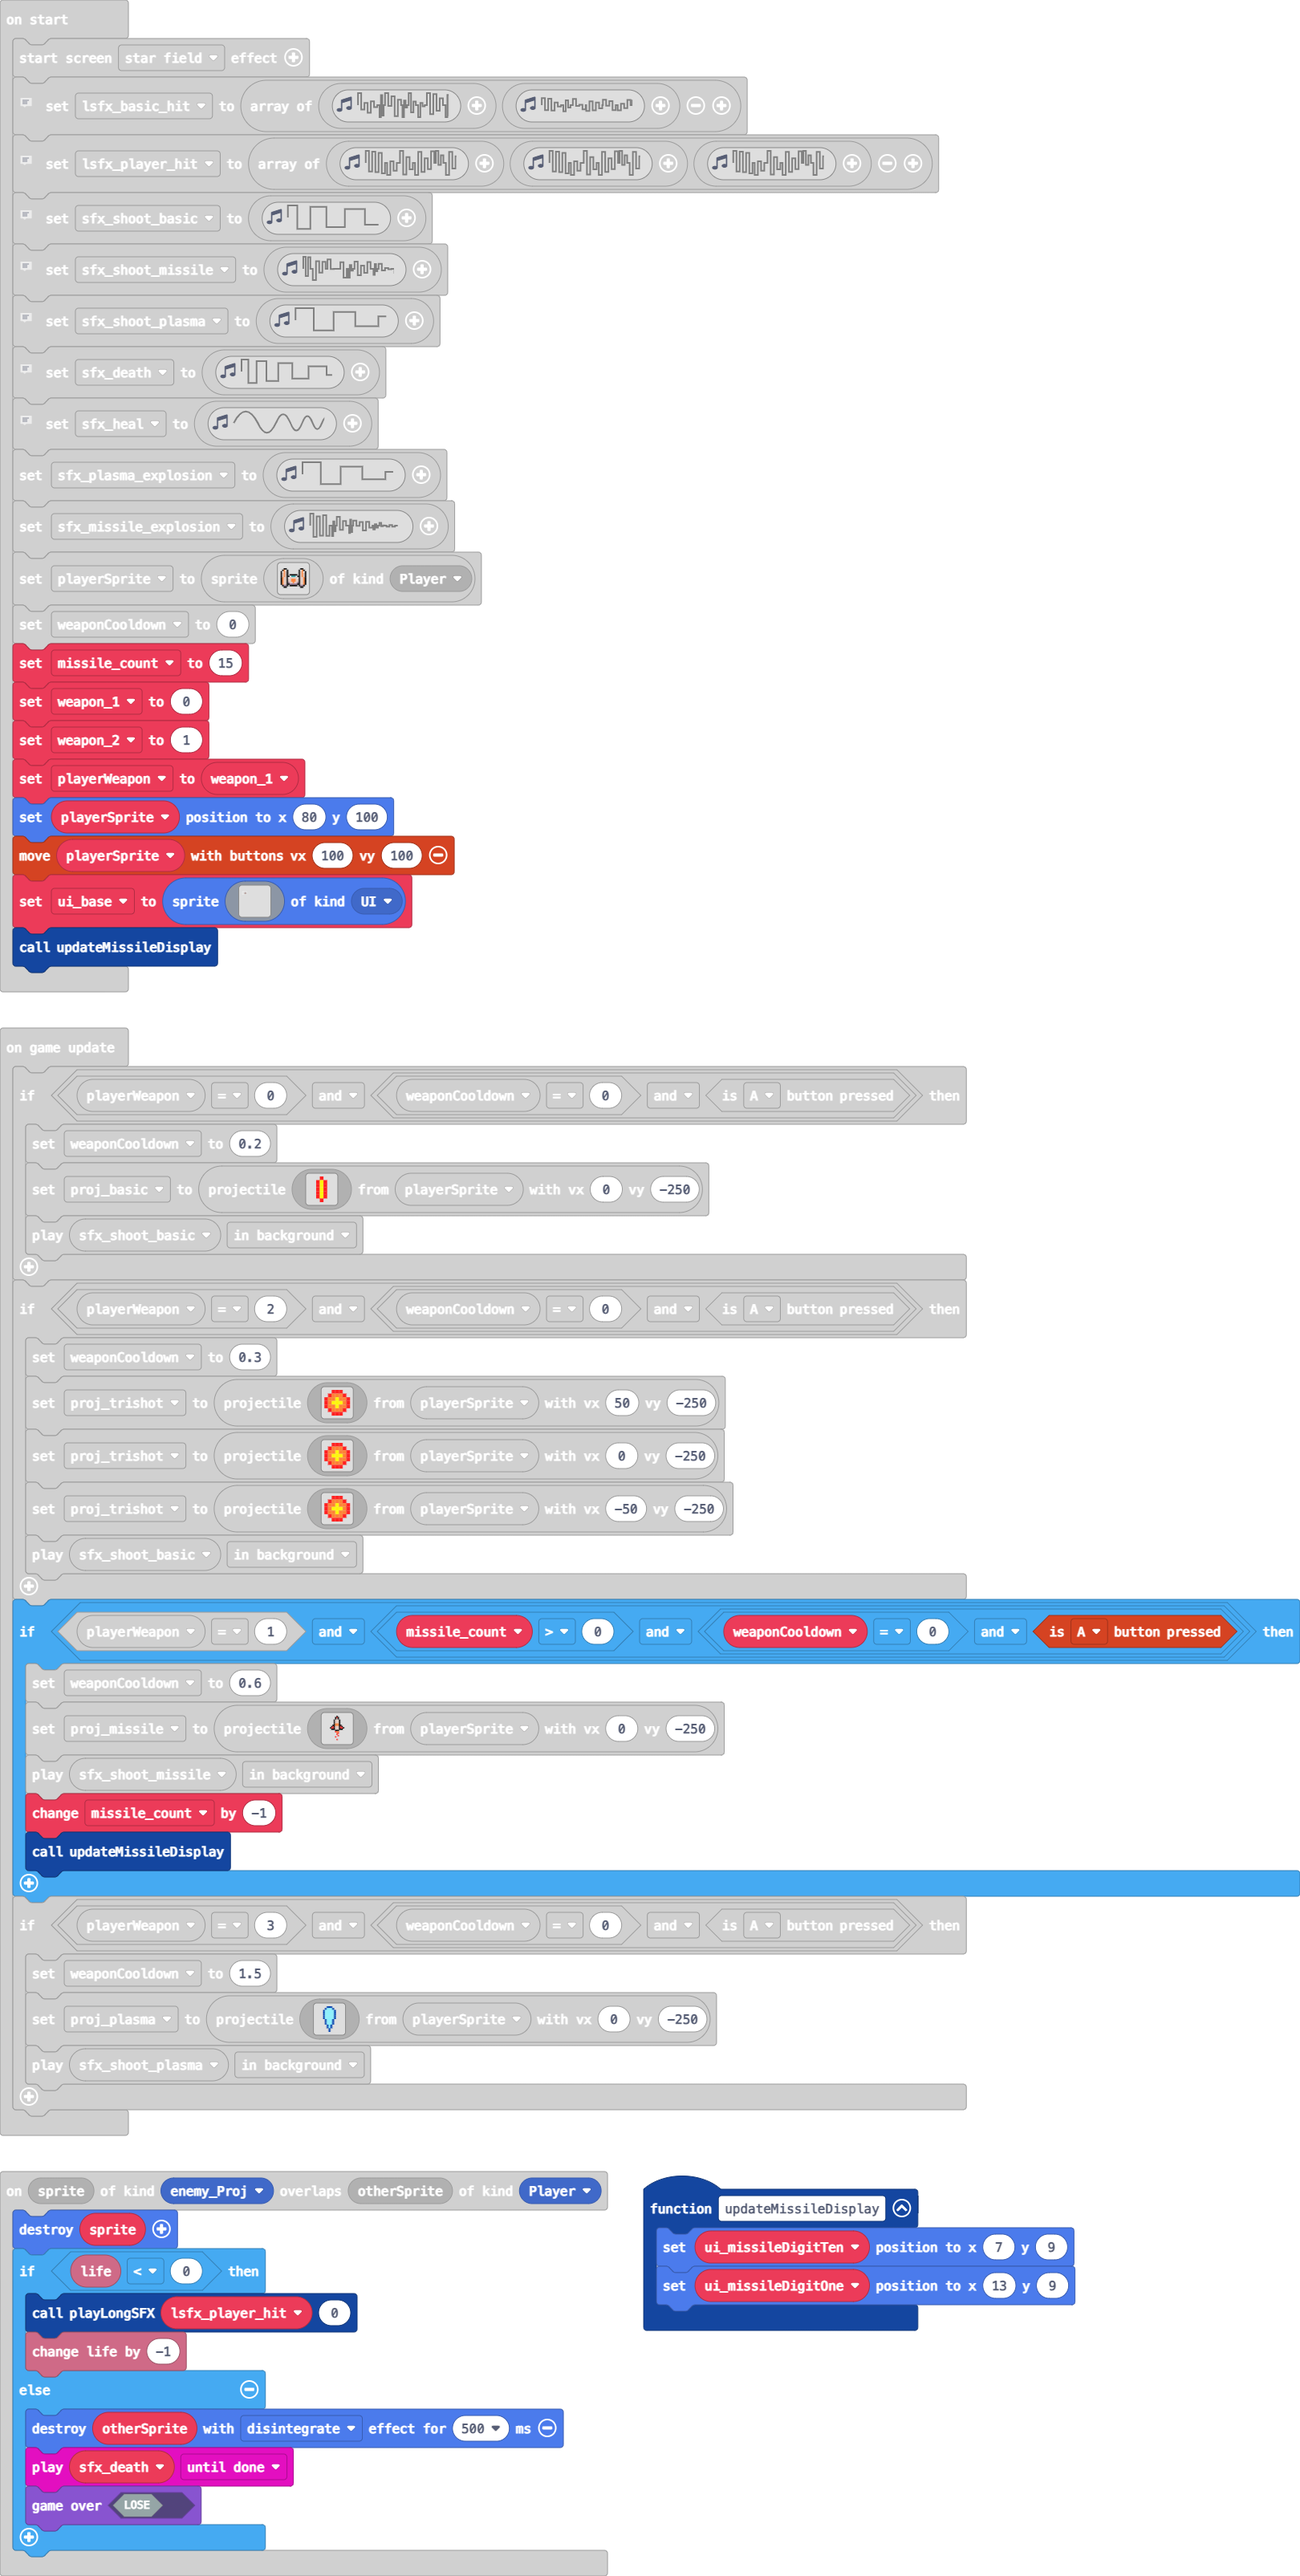
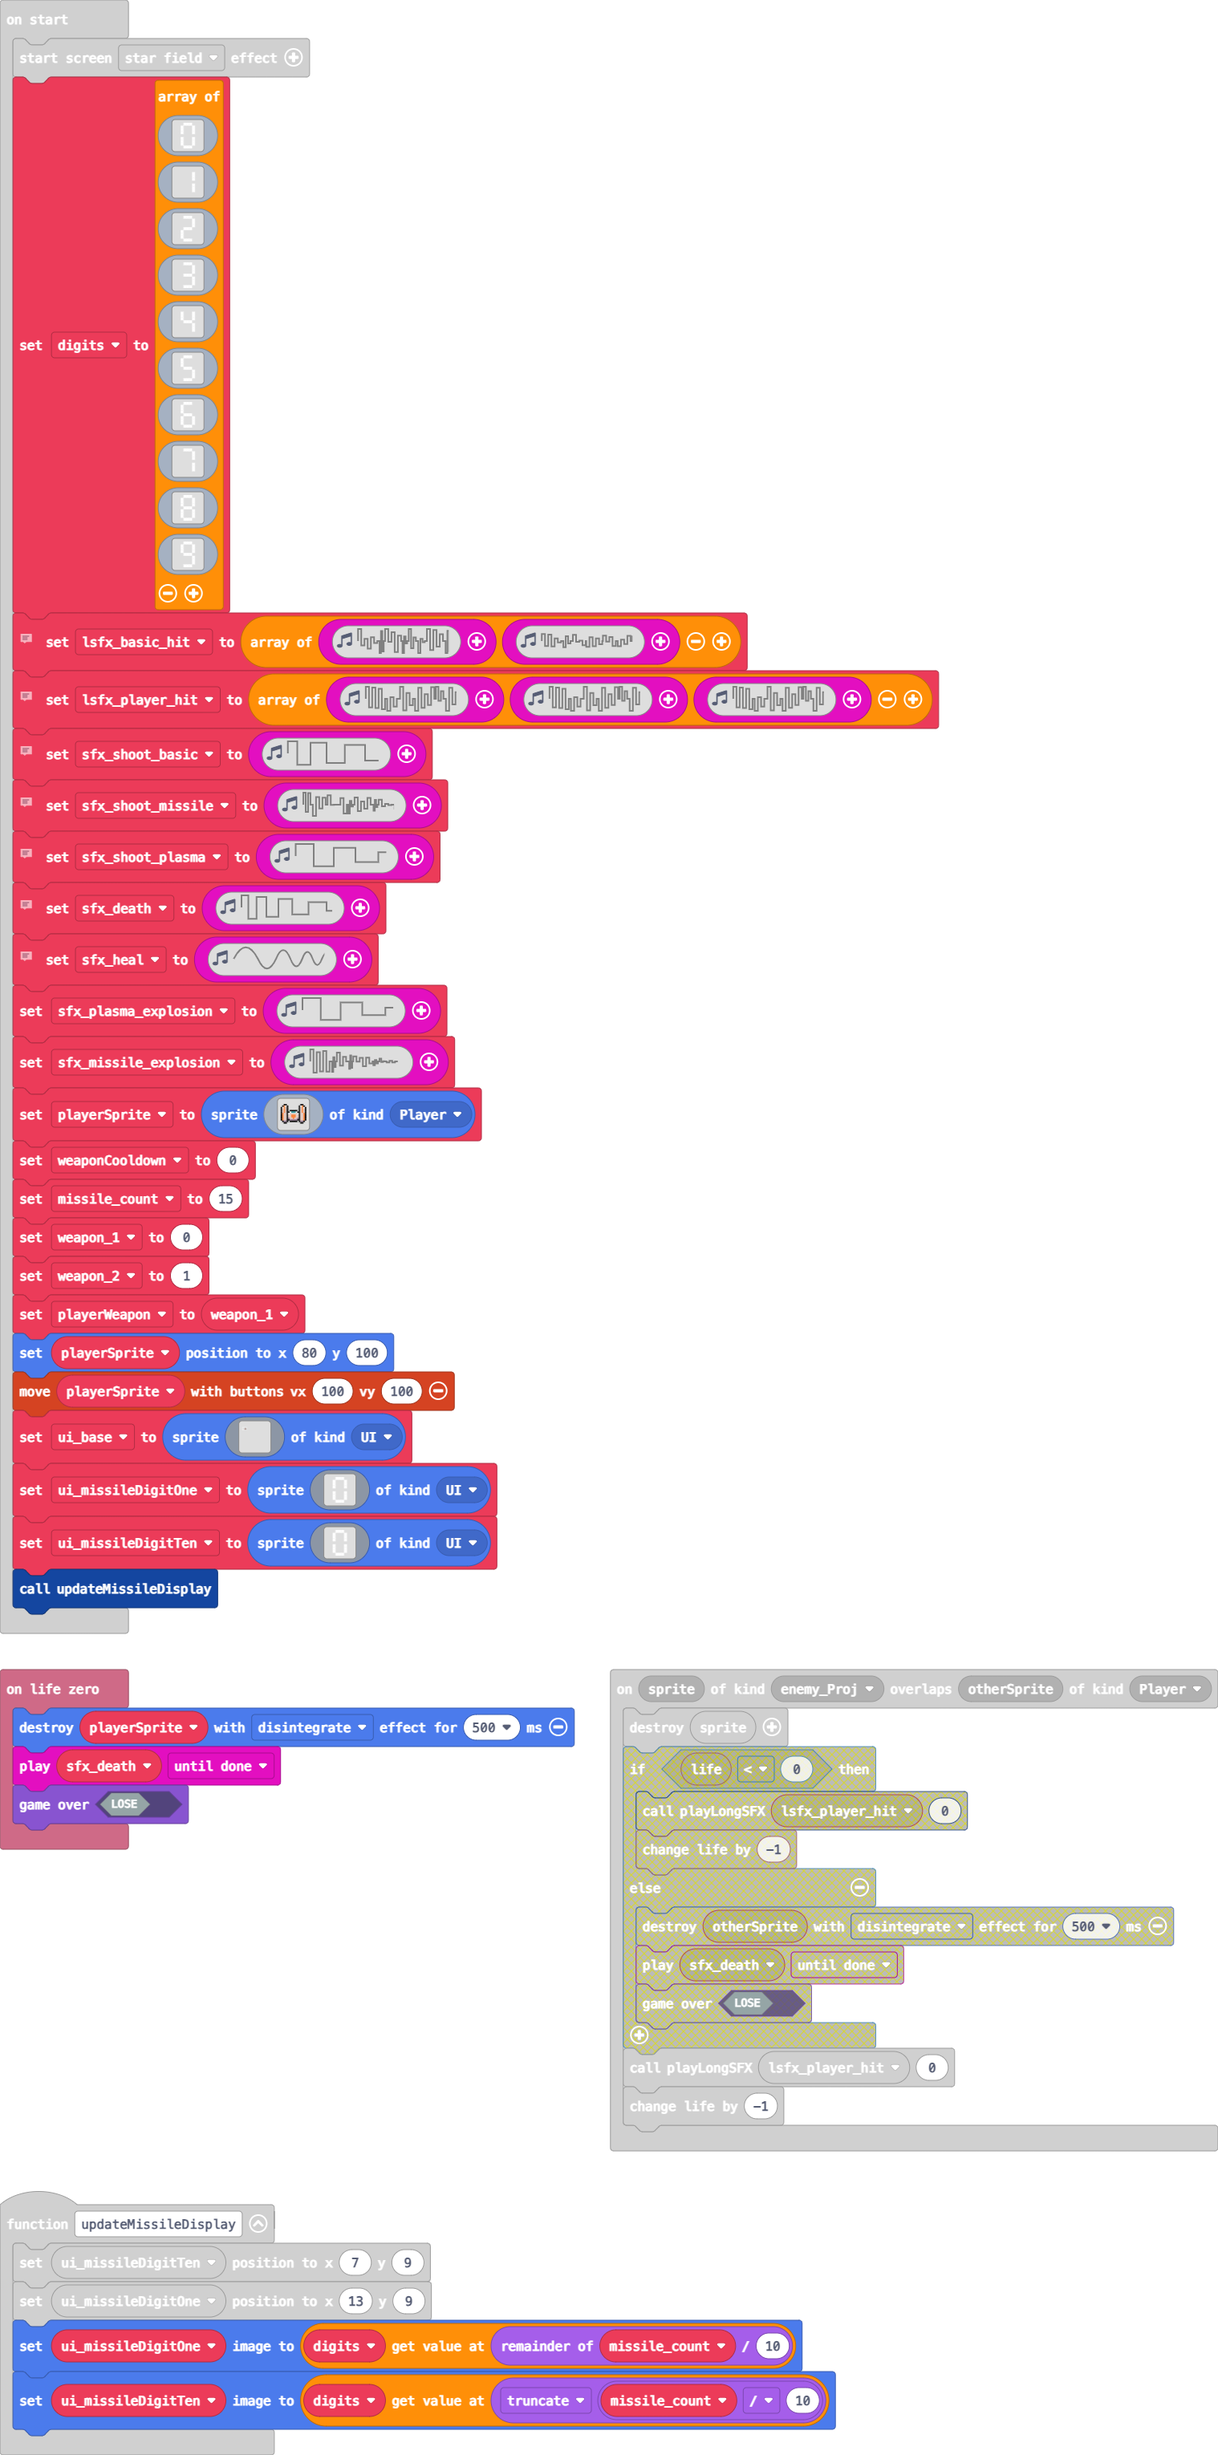
Update main.blocks, main.ts, images.g.jres, images.g.ts

diff --git a/main.ts b/main.ts
@@ -13,14 +13,8 @@ controller.B.onEvent(ControllerButtonEvent.Pressed, function () {
 })
 sprites.onOverlap(SpriteKind.enemy_Proj, SpriteKind.Player, function (sprite, otherSprite) {
     sprites.destroy(sprite)
-    if (info.life() < 0) {
-        playLongSFX(lsfx_player_hit, 0)
-        info.changeLifeBy(-1)
-    } else {
-        sprites.destroy(otherSprite, effects.disintegrate, 500)
-        music.play(sfx_death, music.PlaybackMode.UntilDone)
-        game.gameOver(false)
-    }
+    playLongSFX(lsfx_player_hit, 0)
+    info.changeLifeBy(-1)
 })
 // This function takes a long sound effect and plays it
 function playLongSFX (lsfx: music.Playable[], delay: number) {
@@ -29,23 +23,45 @@ function playLongSFX (lsfx: music.Playable[], delay: number) {
         pause(delay)
     }
 }
+info.onLifeZero(function () {
+    sprites.destroy(playerSprite, effects.disintegrate, 500)
+    music.play(sfx_death, music.PlaybackMode.UntilDone)
+    game.gameOver(false)
+})
 function updateMissileDisplay () {
-    let ui_missileDigitOne: Sprite = null
-    let ui_missileDigitTen: Sprite = null
     ui_missileDigitTen.setPosition(7, 9)
     ui_missileDigitOne.setPosition(13, 9)
+    ui_missileDigitOne.setImage(digits[missile_count % 10])
+    ui_missileDigitTen.setImage(digits[Math.trunc(missile_count / 10)])
 }
 let proj_plasma: Sprite = null
 let proj_missile: Sprite = null
 let proj_trishot: Sprite = null
 let proj_basic: Sprite = null
 let currentWeapon = 0
+let ui_missileDigitTen: Sprite = null
+let ui_missileDigitOne: Sprite = null
 let playerWeapon = 0
 let weapon_2 = 0
 let weapon_1 = 0
+let missile_count = 0
+let playerSprite: Sprite = null
 let sfx_death: music.SoundEffect = null
 let lsfx_player_hit: music.SoundEffect[] = []
+let digits: Image[] = []
 effects.starField.startScreenEffect()
+digits = [
+assets.image`ui_digit_0`,
+assets.image`ui_digit_1`,
+assets.image`ui_digit_2`,
+assets.image`ui_digit_3`,
+assets.image`ui_digit_4`,
+assets.image`ui_digit_5`,
+assets.image`ui_digit_6`,
+assets.image`ui_digit_7`,
+assets.image`ui_digit_8`,
+assets.image`ui_digit_9`
+]
 // sound for weaker hits
 let lsfx_basic_hit = [music.createSoundEffect(WaveShape.Noise, 3856, 1, 255, 255, 30, SoundExpressionEffect.Tremolo, InterpolationCurve.Linear), music.createSoundEffect(WaveShape.Noise, 1984, 1627, 148, 81, 100, SoundExpressionEffect.Warble, InterpolationCurve.Logarithmic)]
 // sound for player hit
@@ -62,15 +78,17 @@ sfx_death = music.createSoundEffect(WaveShape.Square, 4299, 1137, 255, 50, 1000,
 let sfx_heal = music.createSoundEffect(WaveShape.Sine, 1, 3812, 255, 113, 200, SoundExpressionEffect.None, InterpolationCurve.Curve)
 let sfx_plasma_explosion = music.createSoundEffect(WaveShape.Square, 1463, 1, 255, 17, 500, SoundExpressionEffect.Warble, InterpolationCurve.Curve)
 let sfx_missile_explosion = music.createSoundEffect(WaveShape.Noise, 1538, 379, 255, 0, 250, SoundExpressionEffect.Tremolo, InterpolationCurve.Curve)
-let playerSprite = sprites.create(assets.image`player_ship`, SpriteKind.Player)
+playerSprite = sprites.create(assets.image`player_ship`, SpriteKind.Player)
 let weaponCooldown = 0
-let missile_count = 15
+missile_count = 15
 weapon_1 = 0
 weapon_2 = 1
 playerWeapon = weapon_1
 playerSprite.setPosition(80, 100)
 controller.moveSprite(playerSprite, 100, 100)
 let ui_base = sprites.create(assets.image`ui`, SpriteKind.UI)
+ui_missileDigitOne = sprites.create(assets.image`ui_digit_0`, SpriteKind.UI)
+ui_missileDigitTen = sprites.create(assets.image`ui_digit_0`, SpriteKind.UI)
 updateMissileDisplay()
 game.onUpdate(function () {
     if (playerWeapon == 0 && (weaponCooldown == 0 && controller.A.isPressed())) {

diff --git a/images.g.ts b/images.g.ts
@@ -221,6 +221,24 @@ f 4 d d f f b b b b b f f d d 4 f
 . . . . . . . . . . . . . . . . 
 . . . . . . . . . . . . . . . . 
 `;
+            case "image15":
+            case "enemy":return img`
+f f f . . . 2 2 2 . . . f f f 
+f d d f f 2 4 4 4 2 f f d d f 
+. f d d d f f f f f d d d f . 
+. f d b b a b b b a b b b f . 
+. . f b b a b c b a b b f . . 
+. . f b b a c c c a b b f . . 
+. . . f b a c c c a b f . . . 
+. . . f b a b b b a b f . . . 
+. . . . f b a b a b f . . . . 
+. . . . f b a b a b f . . . . 
+. . . . . f a b a f . . . . . 
+. . . . . f a b a f . . . . . 
+. . . . . . f a f . . . . . . 
+. . . . . . f a f . . . . . . 
+. . . . . . . f . . . . . . . 
+`;
             case "image5":
             case "ui_digit_0":return img`
 . 1 1 1 . 
